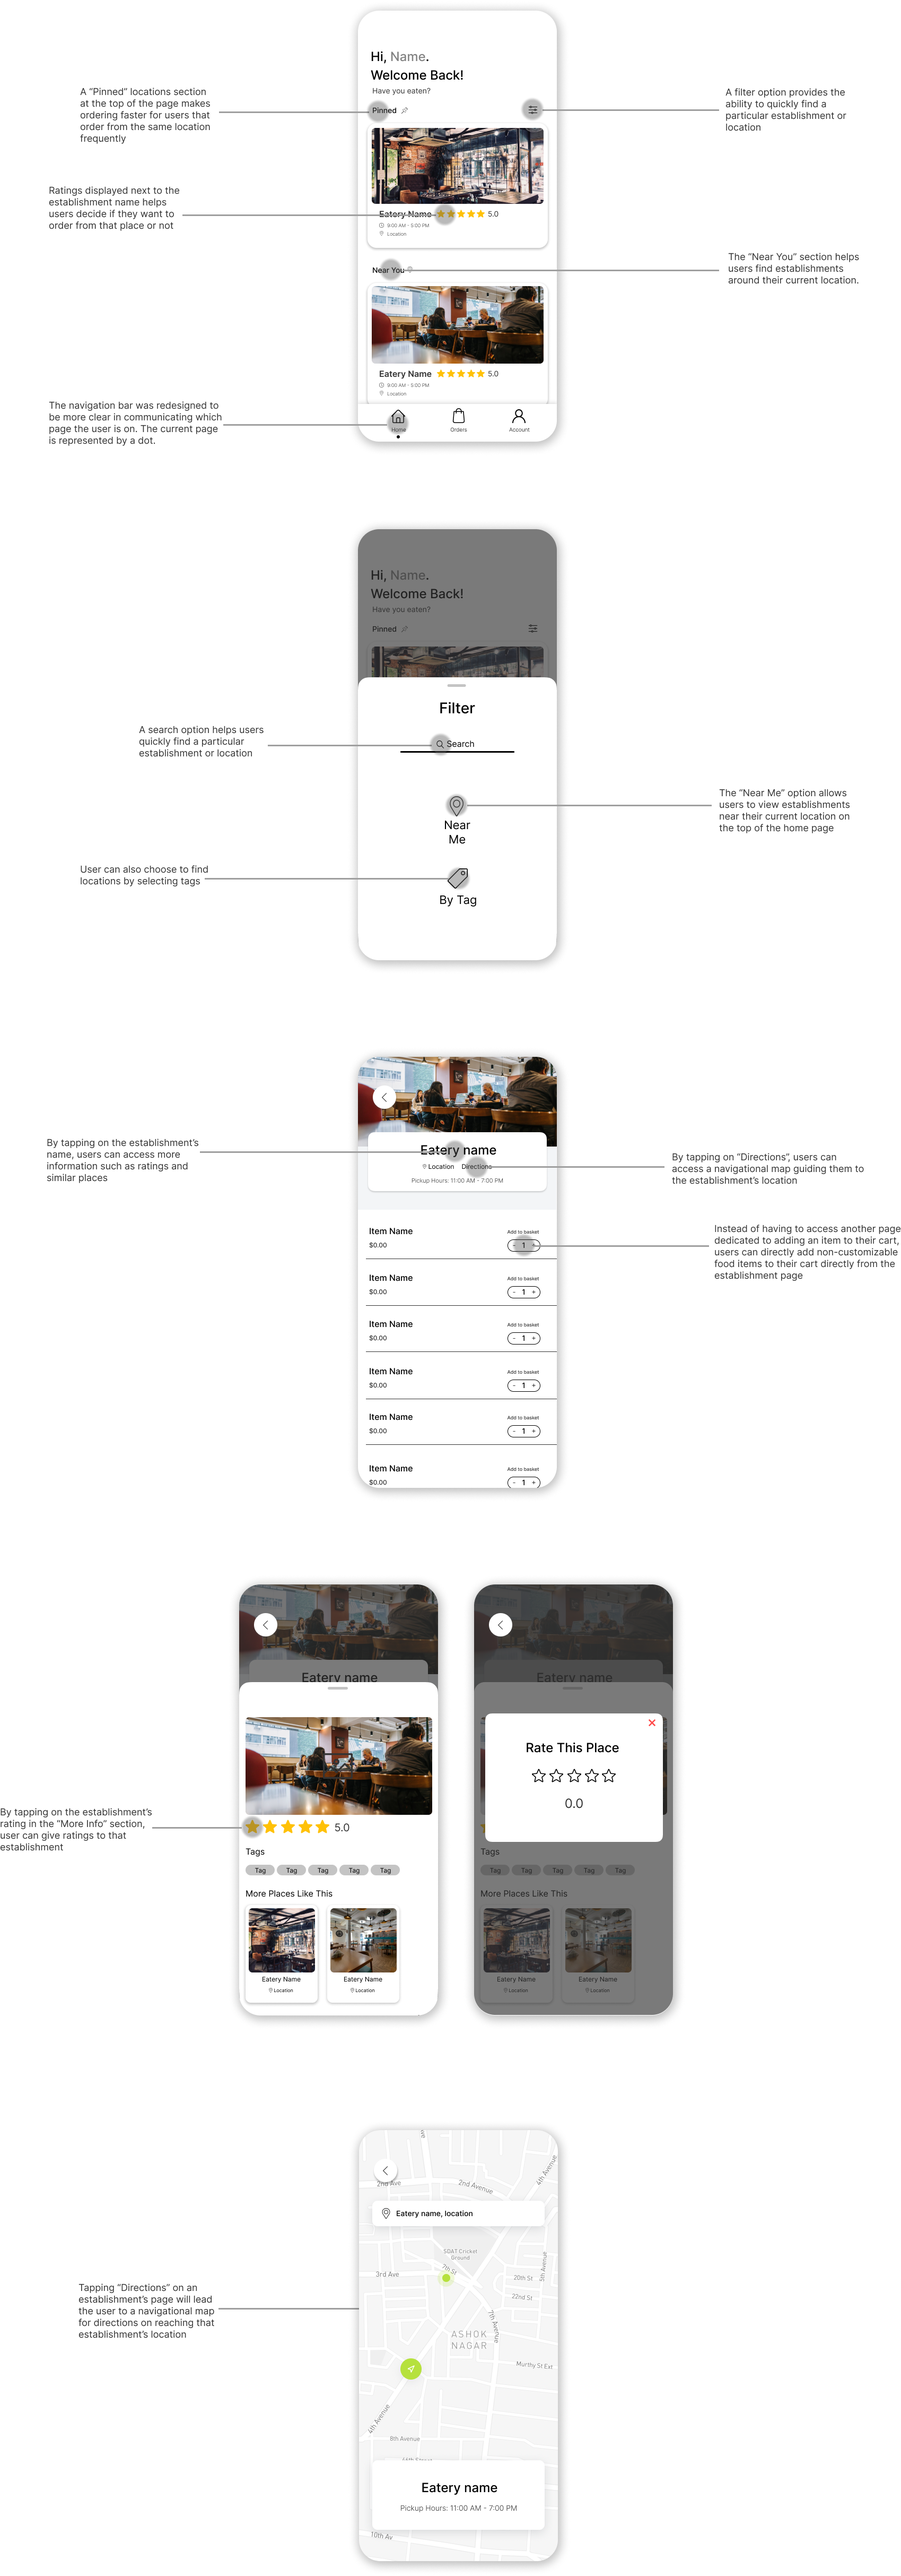
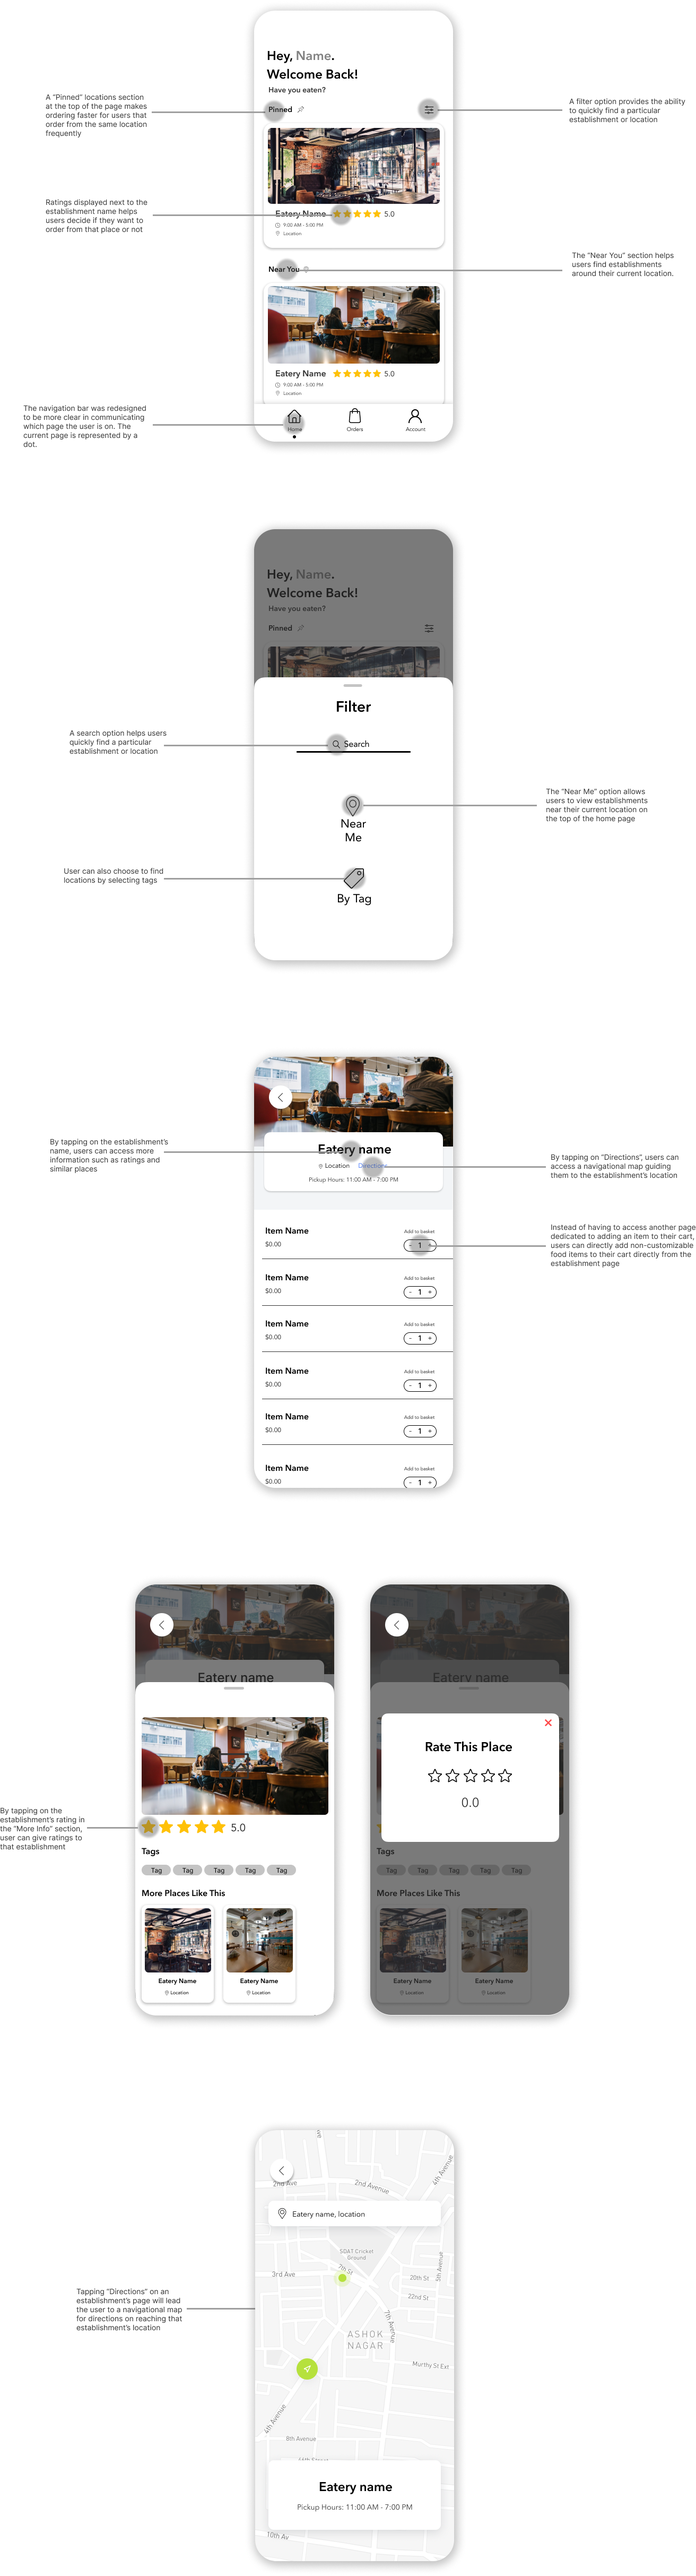
Commit 3.4

diff --git a/site.css b/site.css
@@ -400,6 +400,11 @@ figcaption {
     margin-top: 5vh;
 }
 
+.high-fid img {
+    width: 70vw;
+    margin-left: 14.5vw;
+}
+
 
 /* --------Media Queries-------- */
 
